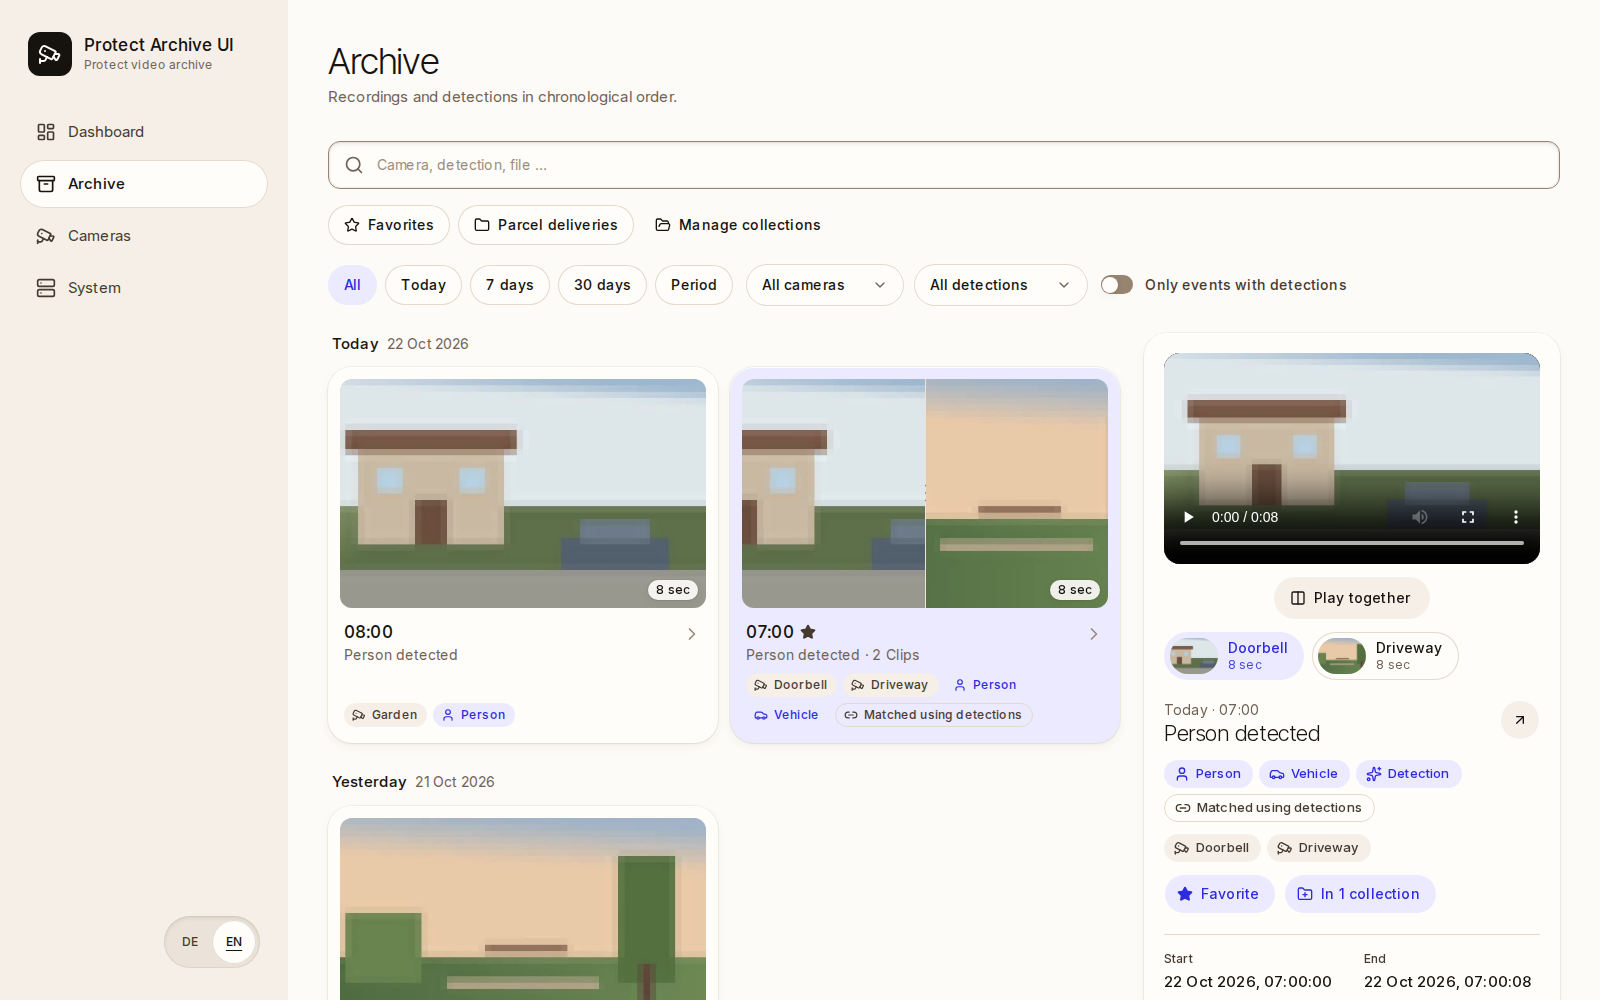
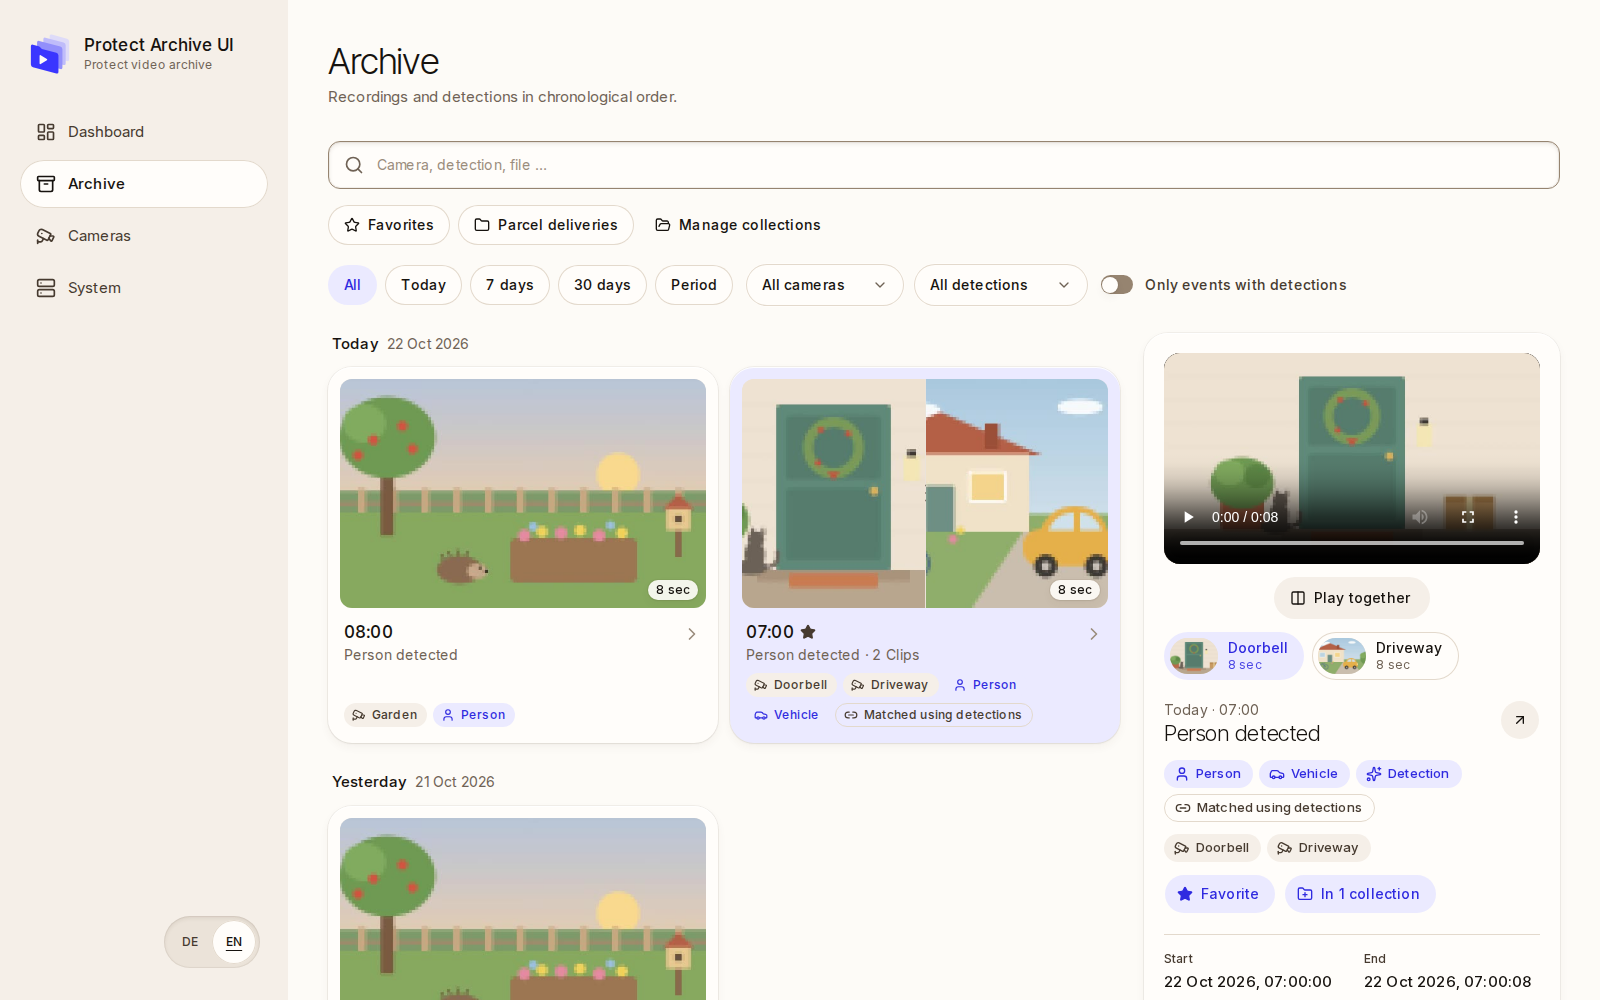
Public source snapshot for v2.0.1

diff --git a/src/components/layout/logo-mark.tsx b/src/components/layout/logo-mark.tsx
@@ -1,0 +1,46 @@
+import { cn } from "cn";
+
+// Same shapes as src/app/icon.svg; keep both in sync. The back layers are violet-spark mixed
+// toward eggshell so they stay opaque where they overlap.
+export function LogoMark({ className }: { className?: string }) {
+  return (
+    <svg viewBox="11.25 10.65 42 42" aria-hidden className={cn("shrink-0", className)}>
+      <g transform="matrix(1 0.268 0 1 0 0)">
+        <rect
+          x="31.9"
+          y="4"
+          width="18.6"
+          height="21.4"
+          rx="2"
+          className="fill-[color-mix(in_srgb,var(--violet-spark)_16%,var(--eggshell))]"
+        />
+        <rect
+          x="25.9"
+          y="8.6"
+          width="21.3"
+          height="21.4"
+          rx="2"
+          className="fill-[color-mix(in_srgb,var(--violet-spark)_32%,var(--eggshell))]"
+        />
+        <rect
+          x="19.9"
+          y="13.3"
+          width="24.2"
+          height="21.4"
+          rx="2"
+          className="fill-[color-mix(in_srgb,var(--violet-spark)_55%,var(--eggshell))]"
+        />
+        <path
+          className="fill-violet-spark"
+          d="M14 38V20.5Q14 18.5 16 18.5H21.4Q22.4 18.5 23.1 19.3L23.7 19.9Q24 20.2 24.5 20.2H38.3Q40.3 20.2 40.3 22.2V38Q40.3 40 38.3 40H16Q14 40 14 38Z"
+        />
+      </g>
+      <path
+        d="M23 33.4L28.9 37.1L23 40.6Z"
+        strokeWidth="1.4"
+        strokeLinejoin="round"
+        className="fill-eggshell stroke-eggshell"
+      />
+    </svg>
+  );
+}

diff --git a/src/components/layout/app-logo.tsx b/src/components/layout/app-logo.tsx
@@ -2,7 +2,7 @@
 
 import { useI18n } from "@/i18n/provider";
 import Link from "next/link";
-import { Cctv } from "lucide-react";
+import { LogoMark } from "@/components/layout/logo-mark";
 import { cn } from "cn";
 
 export function AppLogo({ compact = false }: { compact?: boolean }) {
@@ -12,15 +12,7 @@ export function AppLogo({ compact = false }: { compact?: boolean }) {
       href="/"
       className="flex min-w-0 items-center gap-3 rounded-sm outline-none focus-ring"
     >
-      <span
-        aria-hidden
-        className={cn(
-          "grid shrink-0 place-items-center rounded-sm bg-ink text-on-ink",
-          compact ? "size-9" : "size-11",
-        )}
-      >
-        <Cctv className={compact ? "size-5" : "size-6"} />
-      </span>
+      <LogoMark className={compact ? "size-9" : "size-11"} />
       <span className="flex min-w-0 flex-col leading-tight">
         <span className={cn("font-medium tracking-[-0.01em]", compact ? "text-base" : "text-[1.0625rem]")}>
           Protect Archive UI

diff --git a/docs/selfhosting.md b/docs/selfhosting.md
@@ -22,8 +22,8 @@ in the containers and do not need to be installed on the host.
 # Check the SERVER Engine version, not just the Docker client version.
 docker version --format '{{.Server.Version}}'
 docker compose version
-curl -fsSLO https://raw.githubusercontent.com/dree007/unifi-protect-archive-ui/v2.0.0/docker-compose.yml
-curl -fsSL -o .env https://raw.githubusercontent.com/dree007/unifi-protect-archive-ui/v2.0.0/.env.example
+curl -fsSLO https://raw.githubusercontent.com/dree007/unifi-protect-archive-ui/v2.0.1/docker-compose.yml
+curl -fsSL -o .env https://raw.githubusercontent.com/dree007/unifi-protect-archive-ui/v2.0.1/.env.example
 chmod 600 .env
 # Edit .env: set POSTGRES_PASSWORD and NAS_ARCHIVE_HOST_PATH.
 docker compose up -d
@@ -34,7 +34,7 @@ Open **http://<docker-host-ip>:3100** from a permitted LAN device. No extra bind
 SSH tunnel, proxy, DNS entry or router forwarding is required in the default LAN mode.
 Protect is optional: leave its settings empty for NAS-only use.
 The first startup pulls the ready-made image, creates the schema and starts indexing; no demo data is inserted.
-The default image is `ghcr.io/dree007/unifi-protect-archive-ui:2.0.0`, Linux amd64. It is pulled
+The default image is `ghcr.io/dree007/unifi-protect-archive-ui:2.0.1`, Linux amd64. It is pulled
 anonymously; no registry account, source tree or local compilation is needed.
 `migrate` exiting with code **0** is normal.
 

diff --git a/README.md b/README.md
@@ -31,8 +31,8 @@ Everything else (database, ffmpeg, Node.js) is included in the containers.
 
 ```bash
 mkdir unifi-archive && cd unifi-archive
-curl -fsSLO https://raw.githubusercontent.com/dree007/unifi-protect-archive-ui/v2.0.0/docker-compose.yml
-curl -fsSL -o .env https://raw.githubusercontent.com/dree007/unifi-protect-archive-ui/v2.0.0/.env.example
+curl -fsSLO https://raw.githubusercontent.com/dree007/unifi-protect-archive-ui/v2.0.1/docker-compose.yml
+curl -fsSL -o .env https://raw.githubusercontent.com/dree007/unifi-protect-archive-ui/v2.0.1/.env.example
 chmod 600 .env
 ```
 
@@ -66,7 +66,7 @@ Read [SECURITY.md](SECURITY.md) before you install.
 
 ## Support
 
-Version 2.0.0 is built and tested for Linux amd64 with synthetic recordings and a simulated
+Version 2.0.1 is built and tested for Linux amd64 with synthetic recordings and a simulated
 Protect console. Real NAS setups, Protect versions, HTTPS proxies and single sign-on vary and are
 not individually tested.
 

diff --git a/docs/native-sources.md b/docs/native-sources.md
@@ -3,7 +3,7 @@
 The application is AGPL-3.0-only. Node, Debian packages, fonts and other dependencies keep
 their own terms. Each release attaches the matching `source.tar.gz` (application) and
 `native-source.tar.gz` (third-party material) to its GitHub release, for example
-`https://github.com/dree007/unifi-protect-archive-ui/releases/tag/v2.0.0`. A registry image ID, registry digest and source checksum are
+`https://github.com/dree007/unifi-protect-archive-ui/releases/tag/v2.0.1`. A registry image ID, registry digest and source checksum are
 different identities; the release manifest records them separately.
 
 The native bundle contains exact Debian descriptors, original/patch archives, build files,

diff --git a/CHANGELOG.md b/CHANGELOG.md
@@ -1,5 +1,16 @@
 # Changelog
 
+## 2.0.1
+
+Patch release. No database migration; upgrading from 2.0.0 only needs the new image.
+
+### Changed
+
+- New logo: a stack of archive folders with a play button, drawn in the Atelier Soft colors. It
+  replaces the camera icon in the sidebar and as the browser tab icon.
+- The README screenshots show calm, lightly pixelated illustrated scenes instead of video test
+  patterns.
+
 ## 2.0.0
 
 Major release: a new name, a new visual design and a database migration.
